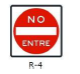
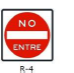
“appPartners2”

diff --git a/app.js b/app.js
@@ -9,6 +9,7 @@ const PASSWORD = "20141010";
 const EXAM_SIZE = 40;
 const EXAM_SECONDS = 40 * 60;
 const LETTERS = ["a", "b", "c", "d"];
+const approvalImage = document.getElementById("approvalImage");
 
 // ==========================================
 // PANTALLAS
@@ -19,7 +20,8 @@ const screens = {
   dashboard: document.getElementById("dashboardScreen"),
   exam: document.getElementById("examScreen"),
   result: document.getElementById("resultScreen"),
-  reading: document.getElementById("readingScreen")
+  reading: document.getElementById("readingScreen"),
+  approval: document.getElementById("approvalScreen"),
 };
 
 let examQuestions = [];
@@ -648,6 +650,63 @@ function finishExam(timeExpired) {
       wrongContainer.appendChild(card);
     });
   }
+// ==========================================
+// VENTANA DE APROBADO O DESAPROBADO
+// ==========================================
 
+const approvalScreen = document.getElementById("approvalScreen");
+const approvalTitle = document.getElementById("approvalTitle");
+const approvalMessage = document.getElementById("approvalMessage");
+const approvalScore = document.getElementById("approvalScore");
+
+function mostrarImagenAnimada(ruta) {
+  approvalImage.classList.remove("animar");
+
+  // Reinicia la animación
+  void approvalImage.offsetWidth;
+
+  approvalImage.src = ruta;
+
+  approvalImage.onload = () => {
+    approvalImage.classList.add("animar");
+  };
+}
+// Condición: 35 a 40 respuestas correctas
+if (correct >= 35) {
+  approvalScreen.classList.remove("failed");
+  approvalScreen.classList.add("approved");
+
+  approvalTitle.textContent = "¡APROBASTE!";
+  approvalMessage.textContent = "¡FELICITACIONES!";
+
+ /*  approvalImage.src = "./imagen/aprobado.png";
+  approvalMessage.alt = "Examen aprobado";*/
+   mostrarImagenAnimada("imagen/aprobado.png");
+
+
+} else {
+  approvalScreen.classList.remove("approved");
+  approvalScreen.classList.add("failed");
+
+  approvalTitle.textContent = "¡DESAPROBASTE!";
+  approvalMessage.textContent = "¡SIGUE INTENTANDO!";
+
+  /* approvalImage.src = "./imagen/desaprobado.png";
+  approvalMessage.alt = "Examen desaprobado";*/
+   mostrarImagenAnimada("imagen/desaprobado.png");
+}
+
+
+// Mostrar puntaje
+approvalScore.textContent = `${correct} / 40`;
+
+// Mostrar ventana
+showScreen("approval");
+approvalScreen.classList.add(correct >= 35 ? "approved" : "failed");
+
+// Esperar 10 segundos y mostrar resultados
+setTimeout(() => {
+  approvalScreen.classList.add("hidden");
   showScreen("result");
+}, 5000);
 }

diff --git a/styles.css b/styles.css
@@ -1302,3 +1302,113 @@ button {
     font-size: 16px;
   }
 }
+
+
+/* VENTANA DE APROBACIÓN */
+#approvalScreen {
+  position: fixed;
+  inset: 0;
+  z-index: 9999;
+  display: flex;
+  align-items: center;
+  justify-content: center;
+  background: rgba(0, 0, 0, 0.85);
+  padding: 20px;
+}
+
+#approvalScreen.hidden {
+  display: none;
+}
+
+#approvalBox {
+  width: 100%;
+  max-width: 450px;
+  padding: 40px 25px;
+  background: white;
+  border-radius: 20px;
+  text-align: center;
+  box-shadow: 0 10px 40px rgba(0, 0, 0, 0.3);
+  animation: approvalAppear 0.5s ease;
+}
+
+#approvalTitle {
+  font-size: 30px;
+  margin-bottom: 15px;
+}
+
+#approvalMessage {
+  font-size: 23px;
+  font-weight: bold;
+}
+
+#approvalScore {
+  font-size: 48px;
+  font-weight: 900;
+  margin: 20px 0;
+}
+
+#approvalScreen.approved #approvalTitle,
+#approvalScreen.approved #approvalMessage,
+#approvalScreen.approved #approvalScore {
+  color: #159447;
+}
+
+#approvalScreen.failed #approvalTitle,
+#approvalScreen.failed #approvalMessage,
+#approvalScreen.failed #approvalScore {
+  color: #e53935;
+}
+
+@keyframes approvalAppear {
+  from {
+    opacity: 0;
+    transform: scale(0.8);
+  }
+  to {
+    opacity: 1;
+    transform: scale(1);
+  }
+}
+
+#approvalImage {
+  width: 180px;
+  height: 180px;
+  object-fit: contain;
+  display: block;
+  margin: 15px auto;
+}
+
+/* ANIMACION A LA IMAGEN APROBADO Y DESAPROBADO*/
+#approvalImage {
+  width: 180px;
+  height: 180px;
+  object-fit: contain;
+  display: block;
+  margin: 15px auto;
+}
+
+/* Animación de entrada */
+#approvalImage.animar {
+  animation: zoomRebote 1s ease-in-out;
+}
+
+@keyframes zoomRebote {
+  0% {
+    opacity: 0;
+    transform: scale(0.2);
+  }
+
+  60% {
+    opacity: 1;
+    transform: scale(1.2);
+  }
+
+  80% {
+    transform: scale(0.9);
+  }
+
+  100% {
+    opacity: 1;
+    transform: scale(1);
+  }
+}

diff --git a/index.html b/index.html
@@ -329,12 +329,40 @@
       </p>
 
     </section>
+    
+    <!-- VENTANA DE APROBACIÓN -->
+<section id="approvalScreen" class="hidden">
+  <div id="approvalBox">
+    <h2 id="approvalTitle"></h2>
+    <p id="approvalMessage"></p>
+
+    <img id="approvalImage"
+         src=""
+         alt="Resultado del examen">
+
+    <div id="approvalScore"></div>
+
+    <p>Preparando tus resultados...</p>
+  </div>
+</section>
+
+</main>
+
+<!-- ARCHIVOS JAVASCRIPT -->
+<script src="questions.js"></script>
+<script src="app.js"></script>
+
+</body>
+</html>
 
   </main>
 
   <!-- ARCHIVOS JAVASCRIPT -->
   <script src="questions.js"></script>
   <script src="app.js"></script>
+
+ 
+
 
 </body>
 </html>

diff --git a/questions.js b/questions.js
@@ -553,6 +553,7 @@ const QUESTIONS = [
   {
     "id": 50,
     "question": "La siguiente señal vertical reglamentaria P-17A, indica:",
+    "image": "imagen/P-17A.png",
     "options": [
       "Reducción de la calzada al lado derecho.",
       "Reducción de la calzada al lado izquierdo.",
@@ -1119,6 +1120,7 @@ const QUESTIONS = [
   {
     "id": 101,
     "question": "Si usted se encuentra conduciendo su vehículo por una vía y antes de cruzar la intersección se encuentra con la señal R-4, esta le indica:",
+    "image": "imagen/R-4.png",
     "options": [
       "Que la calle está clausurada.",
       "Que está por ingresar a una vía de sentido contrario y no debe entrar.",
